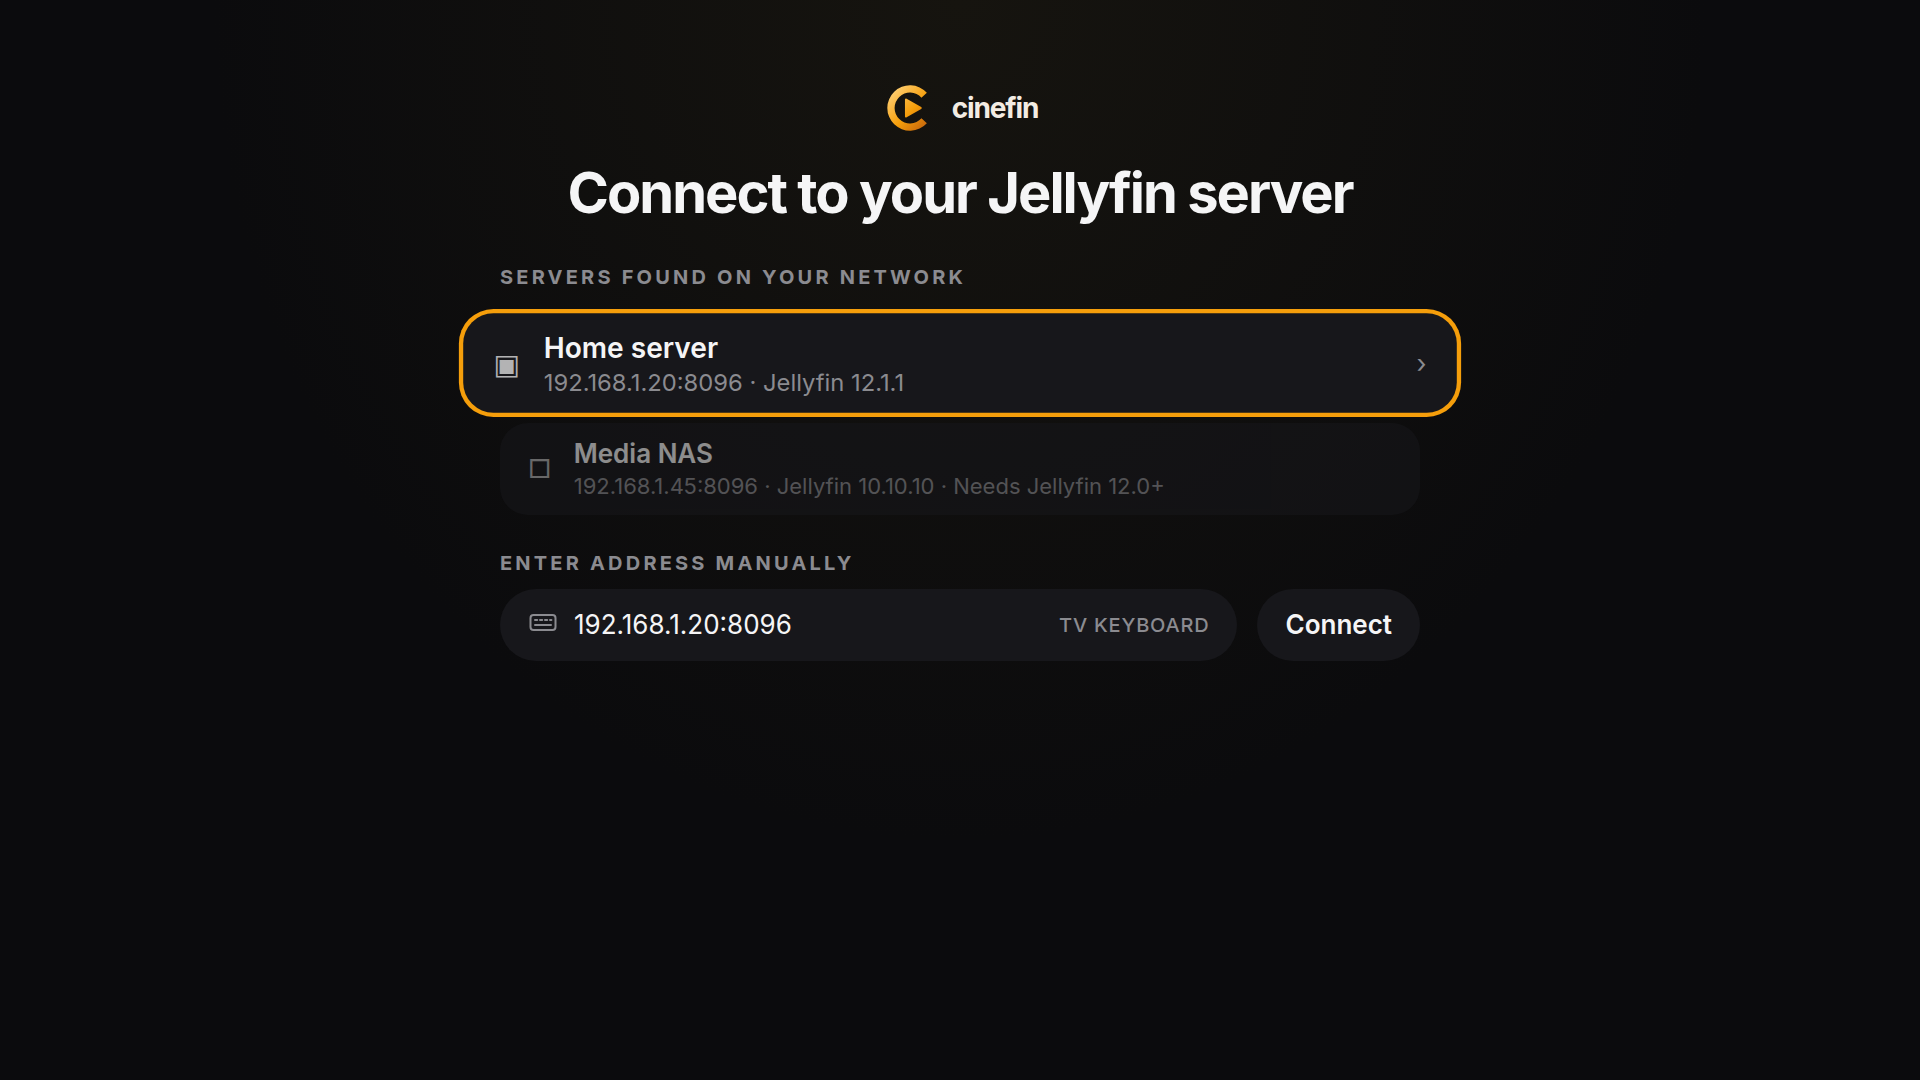
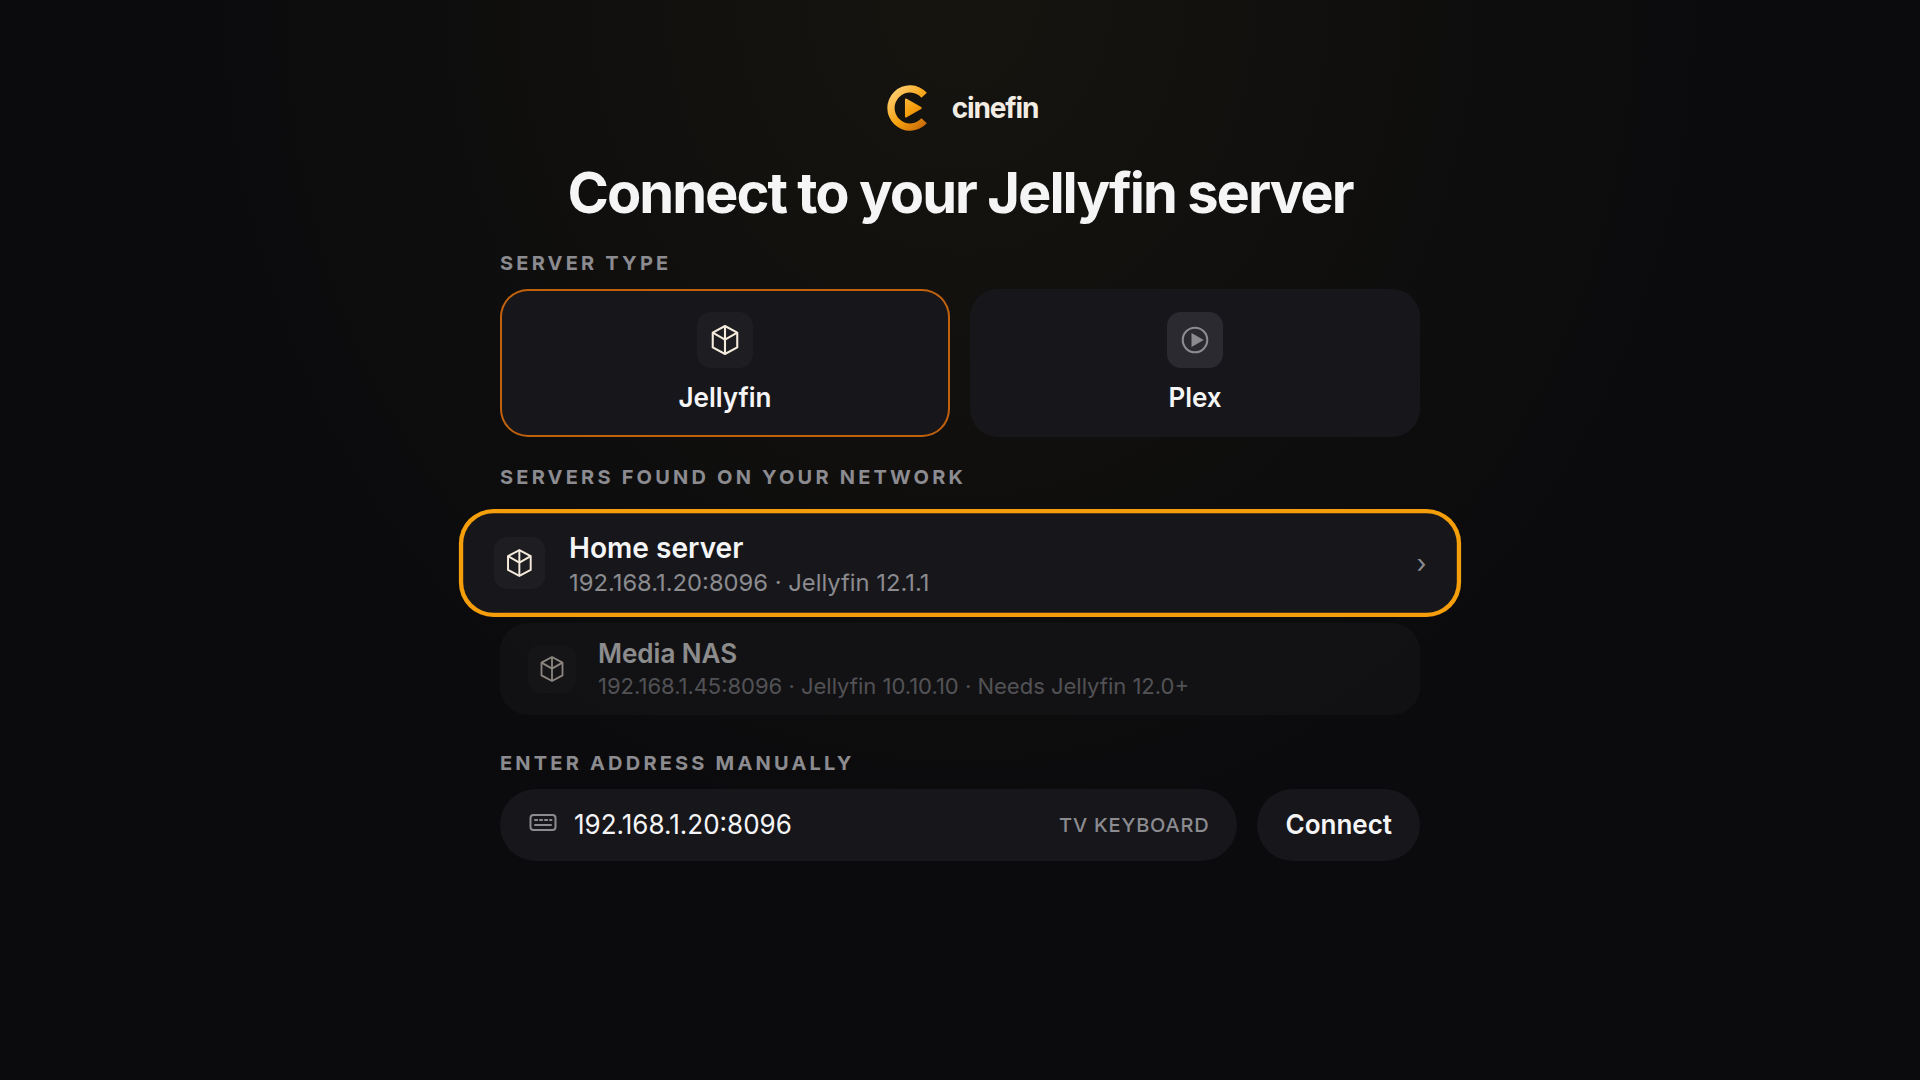
Fix Plex browser fetch and add mocked PIN/Home screenshots
Bind window.fetch in the Plex client (unbound fetch throws in
Chromium), point the mock PMS at the port it actually listens on,
and capture Plex kind-picker, PIN, server list, and Home shots from
the mocked walk.

diff --git a/apps/webos/src/App.tsx b/apps/webos/src/App.tsx
@@ -220,7 +220,10 @@ export function App() {
         }, 2000);
         return () => window.clearInterval(tick);
       })
-      .catch(() => setQc((c) => ({ ...c, code: fixturePlexPin })));
+      .catch((e) => {
+        setError(e instanceof Error ? e.message : 'Plex PIN failed');
+        setQc((c) => ({ ...c, code: fixturePlexPin }));
+      });
     return () => {
       stop = true;
     };
@@ -408,6 +411,7 @@ export function App() {
           savedAccounts={getSession().accounts}
           onPickAccount={activateAccount}
           onPlexSignIn={() => {
+            setError(null);
             setPendingPlexAddress(null);
             go({ name: 'plex-pin' });
           }}
@@ -445,17 +449,24 @@ export function App() {
 
   if (route.name === 'plex-pin') {
     return (
-      <QuickConnectScreen
-        serverLabel={picked ? `${picked.name} · ${picked.address.replace(/^https?:\/\//, '')}` : 'plex.tv/link'}
-        code={qc.code || plexChallenge?.code || fixturePlexPin}
-        remaining={qc.remaining}
-        title="Sign in with a Plex PIN"
-        help="On your phone or computer, open plex.tv/link and enter this code."
-        waiting="Waiting for Plex"
-        showPassword={false}
-        onPassword={() => undefined}
-        onChangeServer={() => go({ name: 'connect' })}
-      />
+      <>
+        <QuickConnectScreen
+          serverLabel={picked ? `${picked.name} · ${picked.address.replace(/^https?:\/\//, '')}` : 'plex.tv/link'}
+          code={qc.code || plexChallenge?.code || fixturePlexPin}
+          remaining={qc.remaining}
+          title="Sign in with a Plex PIN"
+          help="On your phone or computer, open plex.tv/link and enter this code."
+          waiting="Waiting for Plex"
+          showPassword={false}
+          onPassword={() => undefined}
+          onChangeServer={() => go({ name: 'connect' })}
+        />
+        {error ? (
+          <div className="caption" style={{ position: 'absolute', bottom: 24, left: 'var(--safe-x)' }}>
+            {error}
+          </div>
+        ) : null}
+      </>
     );
   }
 

diff --git a/packages/core/src/plex/client.ts b/packages/core/src/plex/client.ts
@@ -38,8 +38,13 @@ export class PlexClient {
   >;
 
   constructor(opts: PlexClientOptions) {
-    this.plexTvUrl = (opts.plexTvUrl ?? 'https://plex.tv').replace(/\/+$/, '');
-    this.fetchImpl = opts.fetchImpl ?? fetch;
+    const injected =
+      typeof globalThis !== 'undefined'
+        ? (globalThis as { __CINEFIN_PLEX_TV__?: string }).__CINEFIN_PLEX_TV__
+        : undefined;
+    this.plexTvUrl = (opts.plexTvUrl ?? injected ?? 'https://plex.tv').replace(/\/+$/, '');
+    const fallback: typeof fetch = (input, init) => fetch(input, init);
+    this.fetchImpl = opts.fetchImpl ?? fallback;
     this.ident = {
       clientIdentifier: opts.clientIdentifier,
       product: opts.product ?? CLIENT_NAME,
@@ -78,7 +83,17 @@ export class PlexClient {
 
   private async request<T>(url: string, init: RequestInit, token?: string): Promise<T> {
     const headers = { ...this.headers(token), ...(init.headers as Record<string, string> | undefined) };
-    const res = await this.fetchImpl(url, { ...init, headers });
+    const ac = typeof AbortController !== 'undefined' ? new AbortController() : null;
+    const timer = ac ? setTimeout(() => ac.abort(), 8000) : undefined;
+    let res: Response;
+    try {
+      res = await this.fetchImpl(url, { ...init, headers, signal: ac?.signal });
+    } catch (err) {
+      const msg = err instanceof Error ? err.message : String(err);
+      throw new Error(`Plex request failed ${url} — ${msg}`);
+    } finally {
+      if (timer) clearTimeout(timer);
+    }
     if (!res.ok) {
       const text = await res.text().catch(() => '');
       throw new Error(`Plex ${res.status} ${url}${text ? ` — ${text.slice(0, 180)}` : ''}`);

diff --git a/apps/webos/src/data/session.ts b/apps/webos/src/data/session.ts
@@ -128,7 +128,12 @@ export function clientInfo() {
 export function plexTvOverride(): string | undefined {
   if (typeof window === 'undefined') return undefined;
   const w = window as Window & { __CINEFIN_PLEX_TV__?: string };
-  return w.__CINEFIN_PLEX_TV__;
+  if (w.__CINEFIN_PLEX_TV__) return w.__CINEFIN_PLEX_TV__;
+  try {
+    return localStorage.getItem('cinefin.plexTv') ?? undefined;
+  } catch {
+    return undefined;
+  }
 }
 
 export type { ServerKind };
